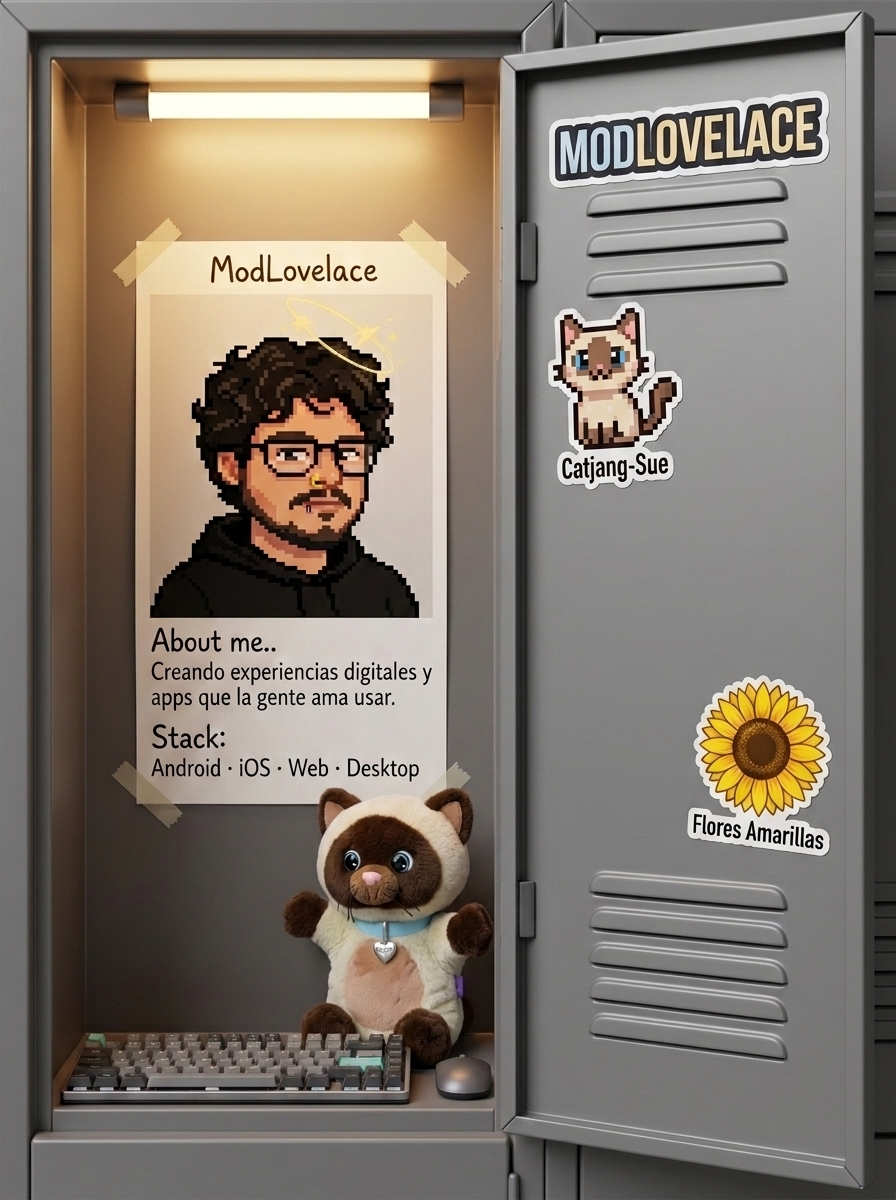
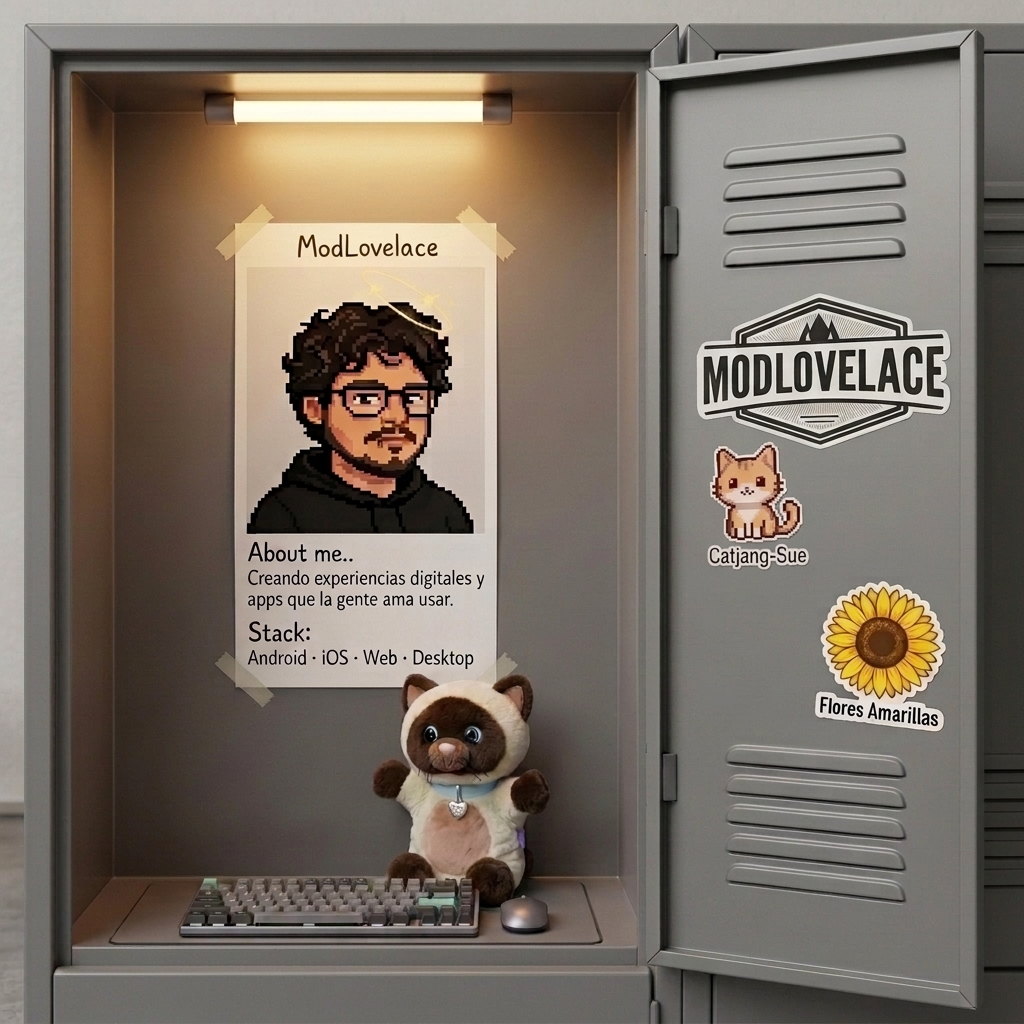
feat(hero): ampliar casillero a formato ancho y espacioso con render 3D de alta definicion

diff --git a/src/components/sections/locker-hero.tsx b/src/components/sections/locker-hero.tsx
@@ -77,17 +77,17 @@ export function LockerHero() {
             
             <div
               onClick={toggleLocker}
-              className="relative w-full max-w-[360px] sm:max-w-[420px] lg:max-w-[460px] aspect-[3/4] rounded-2xl overflow-hidden shadow-2xl border border-neutral-300 dark:border-neutral-800 bg-neutral-900 cursor-pointer group select-none transition-all duration-300 hover:shadow-2xl"
+              className="relative w-full max-w-[420px] sm:max-w-[480px] lg:max-w-[540px] xl:max-w-[560px] aspect-square rounded-2xl overflow-hidden shadow-2xl border border-neutral-300 dark:border-neutral-800 bg-neutral-900 cursor-pointer group select-none transition-all duration-300 hover:shadow-2xl"
               style={{ perspective: "1200px" }}
               title={isOpen ? "Haz clic para cerrar la puerta" : "Haz clic para abrir el casillero"}
             >
-              {/* Capa de fondo: Interior del casillero con puerta ancha abierta a la derecha y Modfin */}
+              {/* Capa de fondo: Interior del casillero con gabinete ancho y espacioso, Modfin y proyectos */}
               <div className="absolute inset-0 w-full h-full">
                 <Image
-                  src="/images/locker-open.jpg"
-                  alt="Interior completo del casillero con proyectos, Modfin y pertenencias de Enrique Becerra (ModLovelace)"
+                  src="/images/locker-open-wide.jpg"
+                  alt="Interior amplio del casillero con proyectos, Modfin y pertenencias de Enrique Becerra (ModLovelace)"
                   fill
-                  sizes="(max-width: 768px) 100vw, (max-width: 1280px) 50vw, 460px"
+                  sizes="(max-width: 768px) 100vw, (max-width: 1280px) 50vw, 560px"
                   priority
                   className="object-cover"
                 />
@@ -100,7 +100,7 @@ export function LockerHero() {
                 />
               </div>
 
-              {/* Capa frontal: Puerta cerrada alineada con bisagras a la DERECHA y stickers de proyectos */}
+              {/* Capa frontal: Puerta cerrada amplia alineada con bisagras a la DERECHA y stickers de proyectos */}
               <div
                 className={`absolute inset-0 w-full h-full origin-right transition-all duration-500 ease-[cubic-bezier(0.2,0.8,0.2,1)] ${
                   isOpen
@@ -110,28 +110,18 @@ export function LockerHero() {
                 style={{ transformStyle: "preserve-3d" }}
               >
                 <Image
-                  src="/images/locker-closed.jpg"
-                  alt="Puerta cerrada del casillero con stickers de proyectos"
+                  src="/images/locker-closed-wide.jpg"
+                  alt="Puerta cerrada del casillero amplio con stickers de proyectos"
                   fill
-                  sizes="(max-width: 768px) 100vw, (max-width: 1280px) 50vw, 460px"
+                  sizes="(max-width: 768px) 100vw, (max-width: 1280px) 50vw, 560px"
                   priority
                   className="object-cover"
                 />
-
-                {/* Etiqueta interactiva limpia sobre la manija */}
-                {!isOpen && (
-                  <div className="absolute bottom-[36%] left-4 sm:left-6 pointer-events-none">
-                    <span className="flex items-center gap-1.5 px-3.5 py-2 rounded-lg bg-amber-400 text-slate-950 text-xs font-bold shadow-lg border border-amber-300/80 animate-bounce">
-                      <span>Abrir</span>
-                      <span>➔</span>
-                    </span>
-                  </div>
-                )}
               </div>
             </div>
 
             {/* Subtítulo discreto debajo del casillero */}
-            <div className="mt-4 flex items-center justify-between w-full max-w-[360px] sm:max-w-[420px] lg:max-w-[460px] px-2 text-xs text-[var(--muted)]">
+            <div className="mt-4 flex items-center justify-between w-full max-w-[420px] sm:max-w-[480px] lg:max-w-[540px] xl:max-w-[560px] px-2 text-xs text-[var(--muted)]">
               <span>{isOpen ? "Puerta abierta · Modfin & stickers de proyectos" : "Casillero cerrado"}</span>
               <button
                 onClick={toggleLocker}
